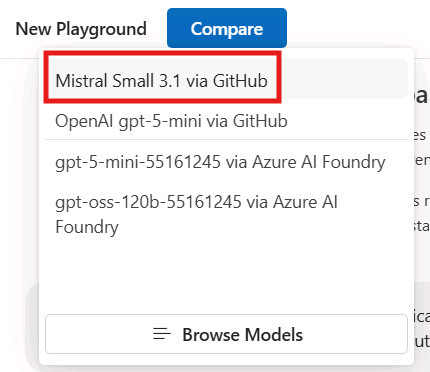
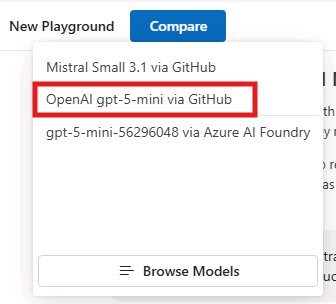
Minor refinements to instructions

diff --git a/lab/instructions/02_Model_Selection.md b/lab/instructions/02_Model_Selection.md
@@ -36,9 +36,9 @@ By doing so, you'll see the filtering options - previously regrouped under **All
 1. Click on the **Publisher** filter dropdown to filter by the model publisher, such as Microsoft, Meta, Cohere, etc. Note that you can find both open-source and proprietary models.
 2. Select **OpenAI** and **Mistral AI** to view models from these two leading providers.
 
-### Filter by Model Features
+### Filter by Model Feature
 
-1. Click on the **Features** filter dropdown to filter by model capabilities, such as image/audio or video processing, tool calling, etc.
+1. Click on the **Feature** filter dropdown to filter by model capabilities, such as image/audio or video processing, tool calling, etc.
 2. Select **Image Attachment** to find multimodal models that support visual input processing and enables multimodal interactions combining text and images.
 
 ## Step 2: Add Models to Your Collection
@@ -72,7 +72,7 @@ For this exercise:
 2. You'll be prompted to login to your GitHub account to access the free-tier models. Click **Allow** and complete the authentication process, by using the same GitHub credentials you used in the [previous lab section](./01_Get_Started.md).
 
 > [!TIP]
-> Now that you are logged in, you should be able to see the models you added into your collection in the 'My resources' tab, under 'GitHub'.
+> Now that you are logged in, you should be able to see the models you added into your collection in the 'My resources' tab, under 'GitHub', in the AI Toolkit extension panel.
 >
 > ![Model collection](../../img/model_collection.png)
 >
@@ -86,7 +86,7 @@ For this exercise:
 > You might experience some delay in model loading, especially if it's your first time accessing the Playground. Please be patient while the model initializes.
 
 4. Next, click the **Compare** button to enable side-by-side comparison
-5. From the dropdown, select your second model (GPT-5-mini if Mistral Small 3.1 is already selected)
+5. From the dropdown, select your second model (OpenAI GPT-5-mini if Mistral Small 3.1 is already selected)
 6. You now have two models ready for comparison testing
 
 ![Model Comparison](../../img/model_comparison.png)
@@ -126,9 +126,9 @@ Next, test the models' image processing capabilities:
 ![Image Attachment](../../img/image_attachment.png)
 
 3. Select an image file to upload. You'll be prompted with a text field with a default file path in your workspace directory. Replace it with the following:
-   ```
-   /workspace/img/demo-living-room.png
-   ```
+```
+/workspace/img/demo-living-room.png
+```
 ![Image File Path](../../img/image_file_path.png)
 
 4. Send the multimodal prompt on both models simultaneously.

diff --git a/lab/instructions/05_Migrate_to_Code.md b/lab/instructions/05_Migrate_to_Code.md
@@ -50,7 +50,7 @@ If you'd like to run the code, save the file and follow the comments at the top 
 
 For example, if you selected the **Microsoft Agent Framework** SDK with **Python**, follow the instructions below:
 
-1. Locate the section in the code file that configures the MCP server tool (lines 31-34). It should look similar to this:
+1. Locate the section in the code file that configures the MCP server tool. It should look similar to this:
 
    ```python
     command="INSERT_COMMAND_HERE",
@@ -71,26 +71,26 @@ For example, if you selected the **Microsoft Agent Framework** SDK with **Python
 4. Open a terminal in Visual Studio Code by selecting **Terminal** -> **New Terminal** from the top menu.
 5. Install the required dependencies by using:
 
-   ```
-   pip install agent-framework --pre
-   ```
+```
+pip install agent-framework --pre
+```
 6. Authenticate to Azure:
 
-    ```
-    az login
-    ```
+```
+az login
+```
     you'll be prompted to open a browser window and fill in a code to complete the authentication. Once back in the terminal, press **Enter** to confirm the Azure subscription selection.
 
 7. Navigate to the directory where the code file is saved:
 
-   ```
-   cd src/python
-   ```
+```
+cd src/python
+```
 8. Run the script using:
 
-   ```
-   python cora-app.py
-   ```
+```
+python cora-app.py
+```
 
 Consider using GitHub Copilot Chat in Agent mode to assist with creating files for the Cora agent's UI. You could also ask GitHub Copilot Chat in Agent mode to integrate the agent script into the app UI so that you'll have a working prototype of the agent!
 

diff --git a/lab/instructions/06_Bonus_Evaluations.md b/lab/instructions/06_Bonus_Evaluations.md
@@ -42,15 +42,17 @@ If no matching products are found in Zava’s catalog, say:
 “Thanks for sharing those details! I’ve searched our catalog, but it looks like we don’t currently have a product that fits your exact needs. If you'd like, I can suggest some alternatives or help you adjust your project requirements to see if something similar might work.”
 ```
 
+> [!NOTE]
+> Make sure the Model is still set to **gpt-5-mini (via Azure AI Foundry)**.
+
+
 All variables are stored in the **Variables** section in Agent Builder.
 
 ![Agent variables.](../../img/agent-variables.png)
 
 So how does this work? Suppose we want to use `eggshell paint` as the `{{product}}`. Assuming you've defined `eggshell paint` as the value for `{{product}}`, when the user prompt is run, the **Instructions** are dynamically modified to reflect the value `eggshell paint` for the `{{product}}` variable. Therefore, the agent instructions would read:
 
-```
-You are Cora, an intelligent and friendly AI assistant for Zava, a home improvement brand. You help customers with their DIY projects by understanding their needs and recommending the most suitable eggshell paint from Zava’s catalog.
-```
+"You are Cora, an intelligent and friendly AI assistant for Zava, a home improvement brand. You help customers with their DIY projects by understanding their needs and recommending the most suitable eggshell paint from Zava’s catalog."
 
 Let's see this in action by running a few lines of evaluation data!
 
